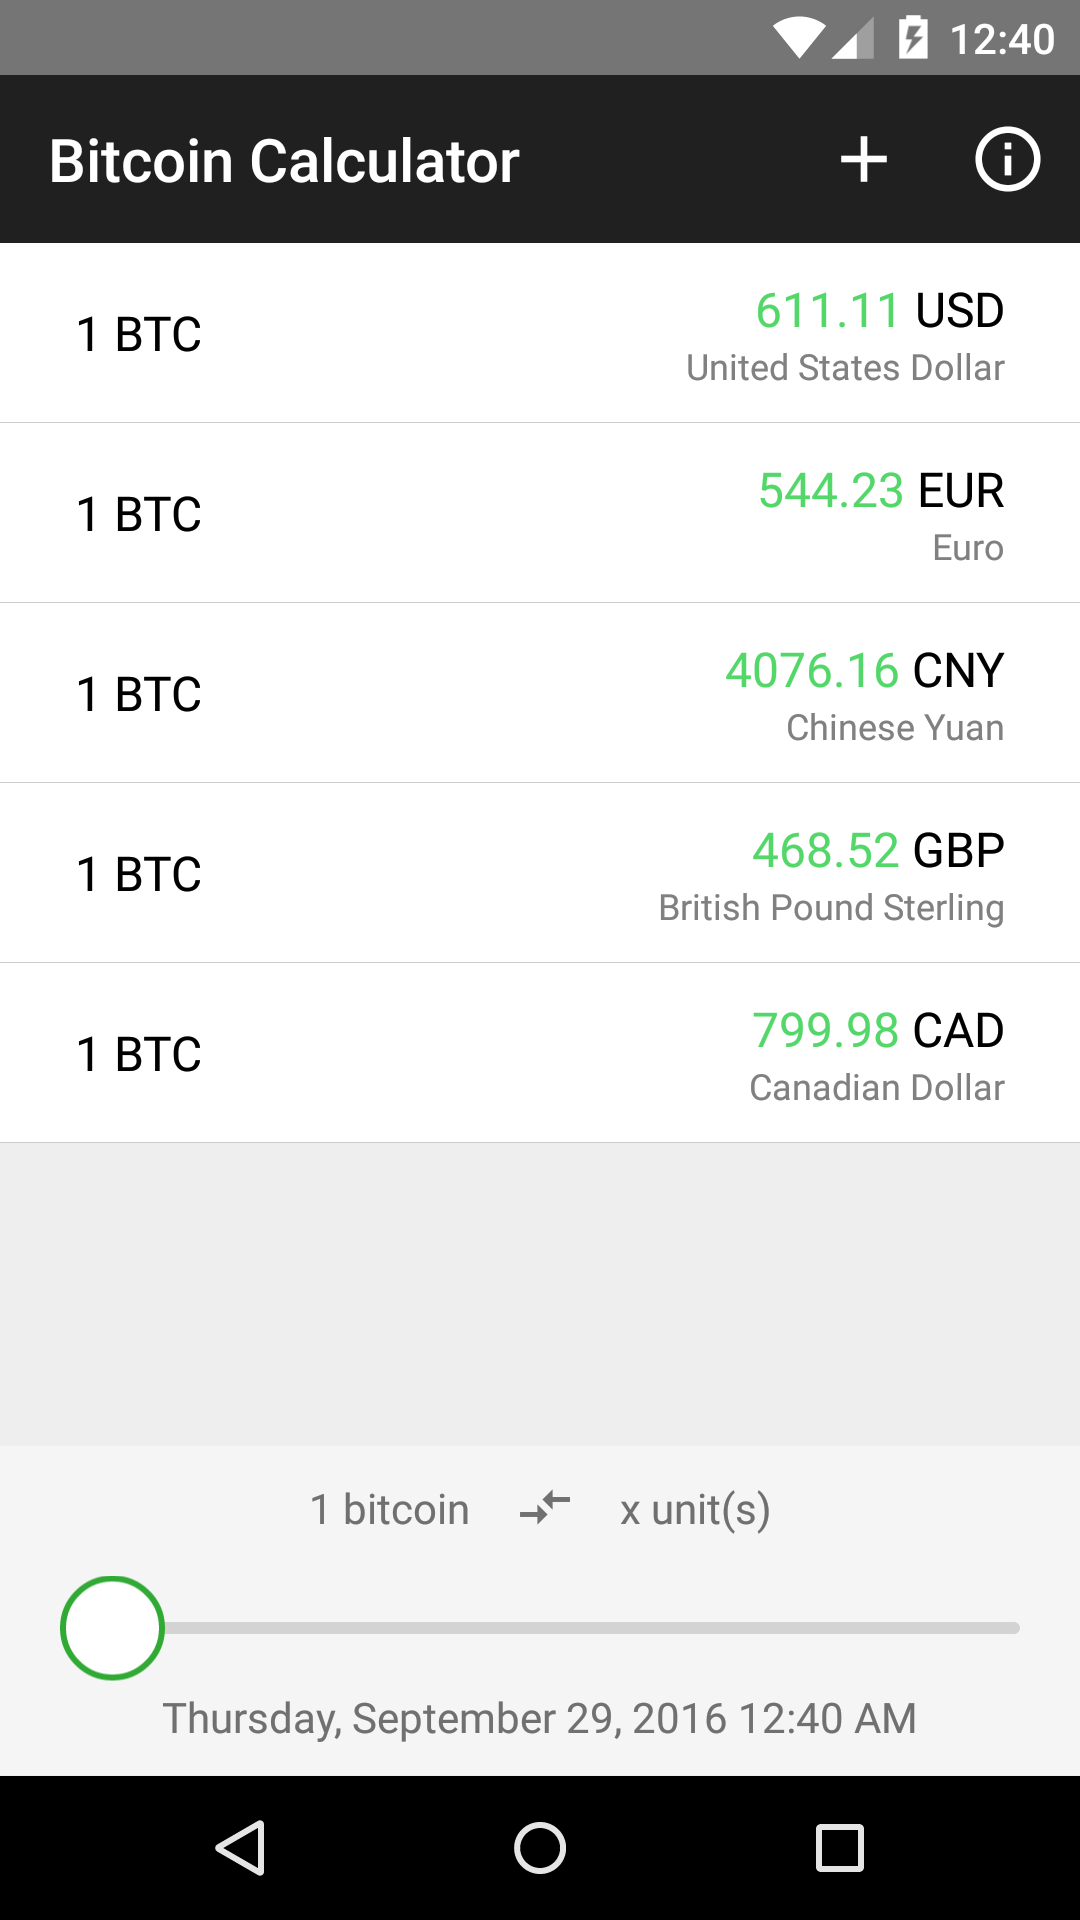
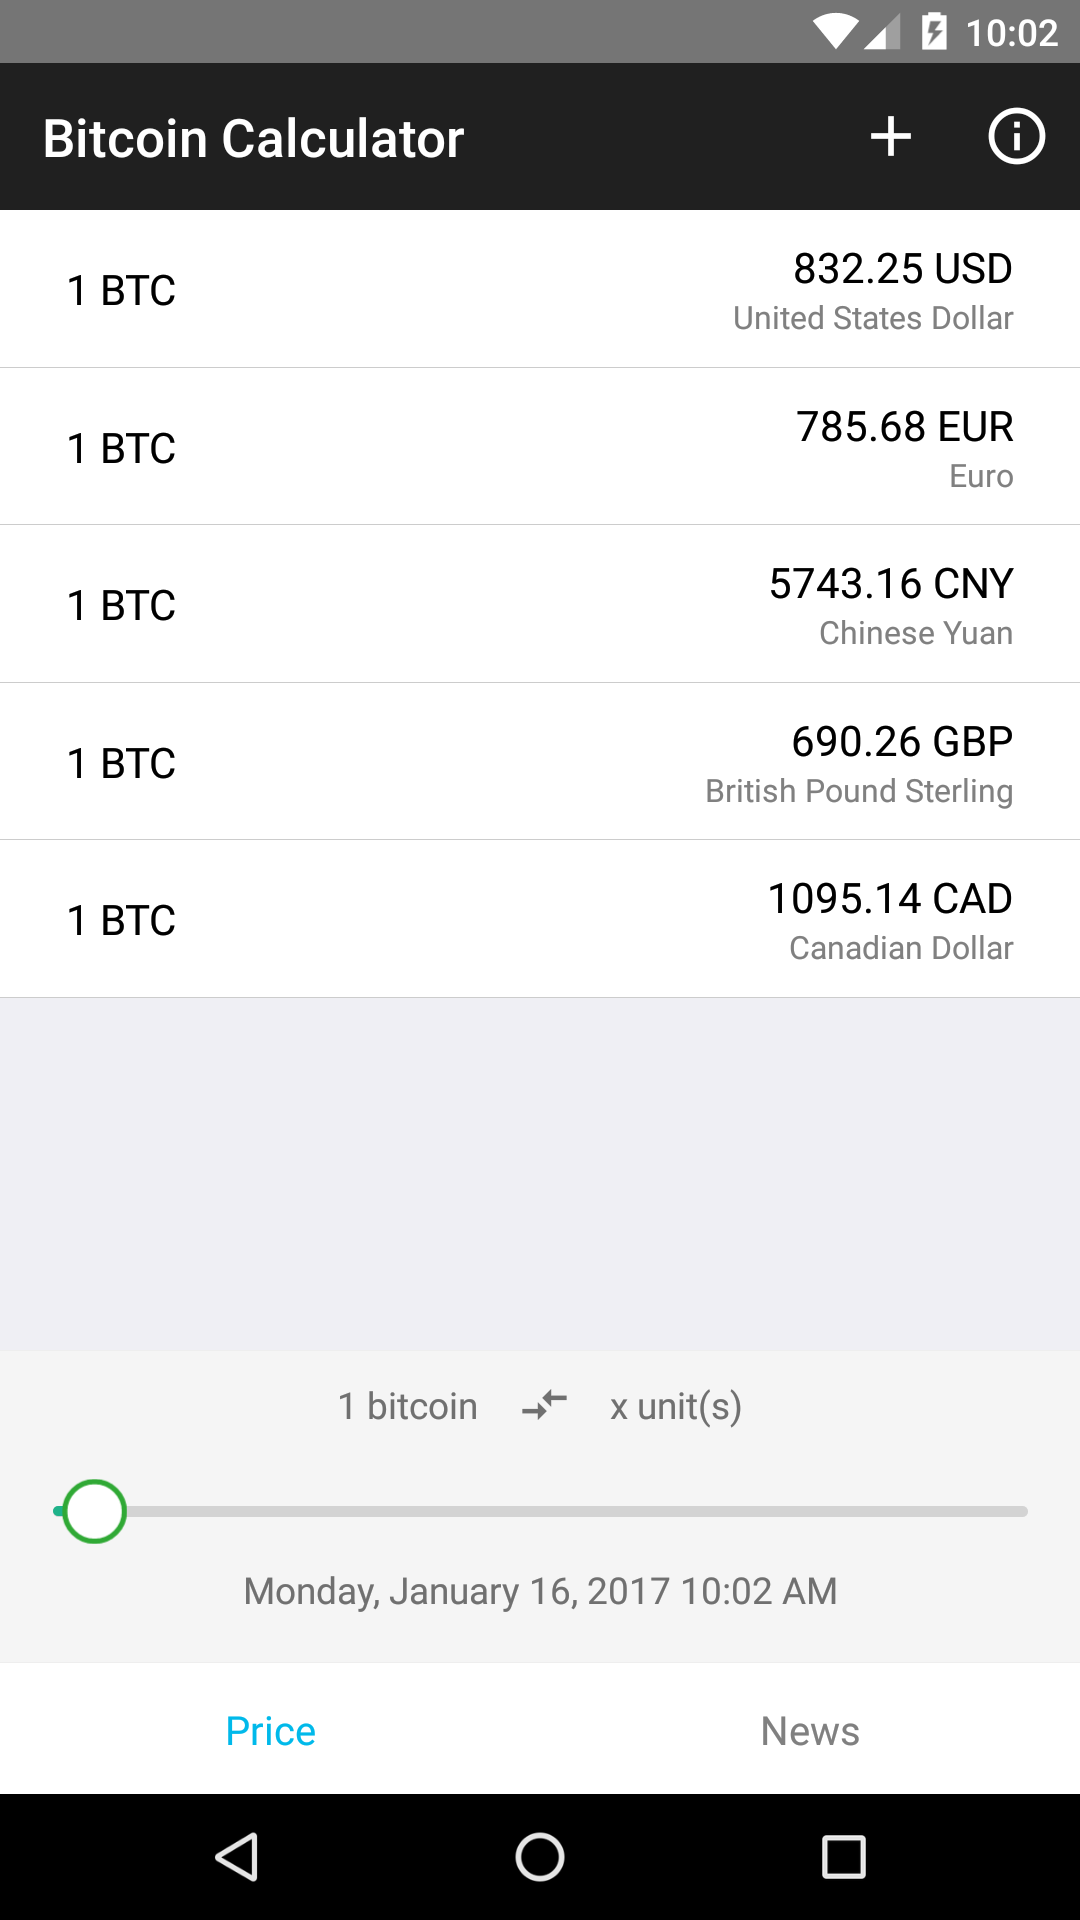
Update screenshots

diff --git a/README.md b/README.md
@@ -12,14 +12,18 @@ Bitcoin Calculator App written in [React Native](https://github.com/facebook/rea
 
 ## Screenshots
 
-<img src="https://raw.github.com/7kfpun/BitcoinReactNative/master/assets/screenshots/screenshotIos0.png" width="280">
-<img src="https://raw.github.com/7kfpun/BitcoinReactNative/master/assets/screenshots/screenshotIos1.png" width="280">
-<img src="https://raw.github.com/7kfpun/BitcoinReactNative/master/assets/screenshots/screenshotIos2.png" width="280">
+<img src="https://raw.github.com/7kfpun/BitcoinReactNative/master/assets/screenshots/screenshotIos0.png" width="150">
+<img src="https://raw.github.com/7kfpun/BitcoinReactNative/master/assets/screenshots/screenshotIos1.png" width="150">
+<img src="https://raw.github.com/7kfpun/BitcoinReactNative/master/assets/screenshots/screenshotIos2.png" width="150">
+<img src="https://raw.github.com/7kfpun/BitcoinReactNative/master/assets/screenshots/screenshotIos3.png" width="150">
+<img src="https://raw.github.com/7kfpun/BitcoinReactNative/master/assets/screenshots/screenshotIos4.png" width="150">
 <br />
 
-<img src="https://raw.github.com/7kfpun/BitcoinReactNative/master/assets/screenshots/screenshotAndroid0.jpg" width="280">
-<img src="https://raw.github.com/7kfpun/BitcoinReactNative/master/assets/screenshots/screenshotAndroid1.jpg" width="280">
-<img src="https://raw.github.com/7kfpun/BitcoinReactNative/master/assets/screenshots/screenshotAndroid2.jpg" width="280">
+<img src="https://raw.github.com/7kfpun/BitcoinReactNative/master/assets/screenshots/screenshotAndroid0.jpg" width="150">
+<img src="https://raw.github.com/7kfpun/BitcoinReactNative/master/assets/screenshots/screenshotAndroid1.jpg" width="150">
+<img src="https://raw.github.com/7kfpun/BitcoinReactNative/master/assets/screenshots/screenshotAndroid2.jpg" width="150">
+<img src="https://raw.github.com/7kfpun/BitcoinReactNative/master/assets/screenshots/screenshotAndroid3.jpg" width="150">
+<img src="https://raw.github.com/7kfpun/BitcoinReactNative/master/assets/screenshots/screenshotAndroid4.jpg" width="150">
 
 ## React and React Native version
 
